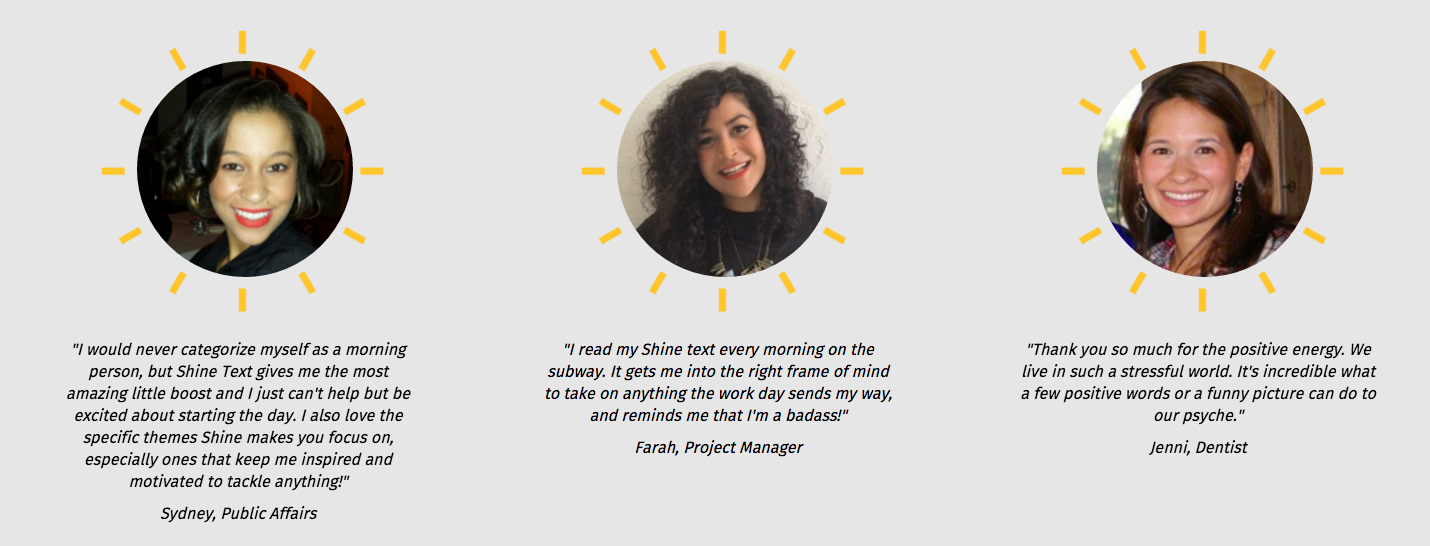
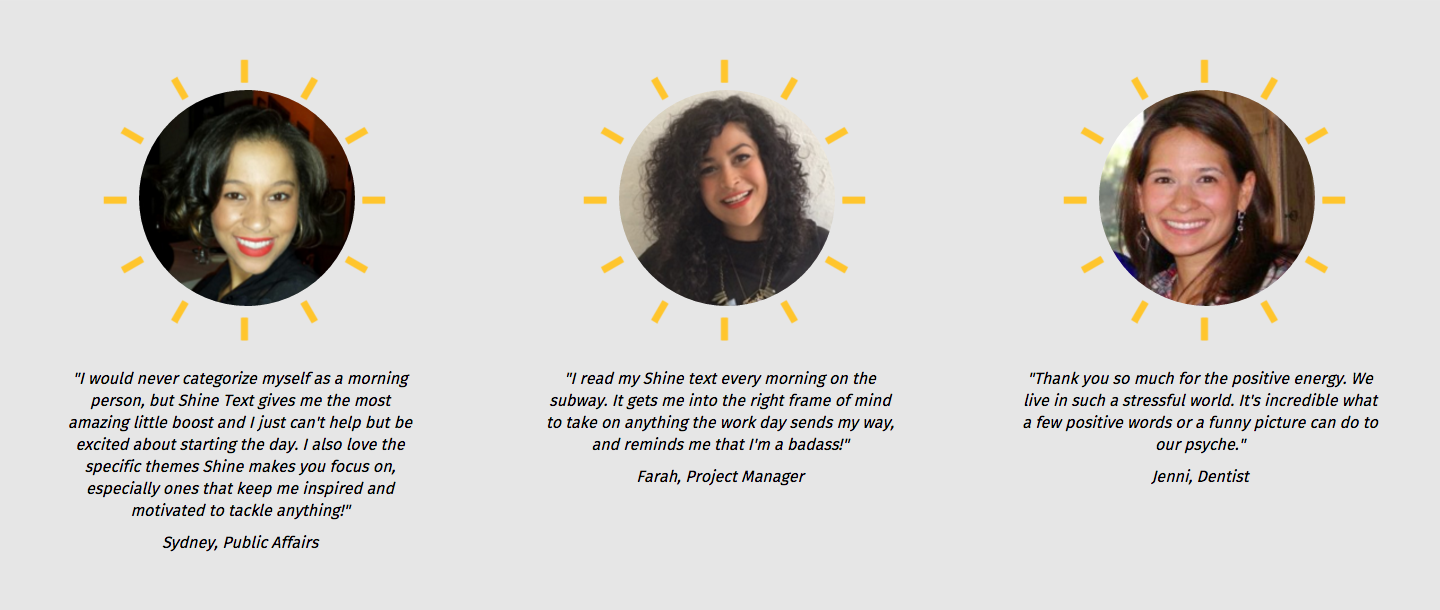
fixes slides so they are the same size - adds size into comments of the code

diff --git a/resources/views/index.blade.php b/resources/views/index.blade.php
@@ -164,27 +164,19 @@
           <ol class="carousel-indicators">
             <li data-target="#carousel-example-generic" data-slide-to="0" class="active"></li>
             <li data-target="#carousel-example-generic" data-slide-to="1"></li>
-            <li data-target="#carousel-example-generic" data-slide-to="2"></li>
+            <!-- <li data-target="#carousel-example-generic" data-slide-to="2"></li> -->
           </ol>
          
-          <!-- Wrapper for slides -->
+          <!-- Wrapper for slides - dimensions are screenshots of 1440 x 610 -->
           <div class="carousel-inner">
             <div class="item active">
               <img src={{asset('images/testimonials_1.png')}} alt="...">
-              <div class="carousel-caption">
-                  <!-- <h3>Caption</h3> -->
-              </div>
+<!--               <div class="carousel-caption">
+                  <h3>Caption</h3>
+              </div> -->
             </div>
             <div class="item">
               <img src={{asset('images/testimonials_2.png')}} alt="...">
-              <div class="carousel-caption">
-              </div>
-            </div>
-            <div class="item">
-              <img src={{asset('images/christina  .png')}} alt="...">
-              <div class="carousel-caption">
-                  <h3>Christina</h3>
-              </div>
             </div>
           </div>
          
@@ -196,7 +188,7 @@
             <span class="glyphicon glyphicon-chevron-right"></span>
           </a>
         </div> <!-- Carousel -->
-        <!-- <div class="col-md-4" id="testimonials">
+     <!--    <div class="col-md-4" id="testimonials">
           <div class="rays">
             <img src={{asset('images/sun_rays.png')}}>
           </div>
@@ -205,10 +197,9 @@
           </div>
           <p>"EVERYTHING I ever needed to make it through another awkward week of my version of adulting. I'm always twiddling my thumbs waiting for Shine to kick my ass back into gear. #dependency"</p> 
           <p id="name">Brenna, Graduate Student</p>
-        </div>
         </div> -->
           <a name="refer"></a>
-      </div>
+      <!-- </div> -->
 
       <div style="clear: both;">
       <div class="refer-a-friend">
@@ -243,7 +234,7 @@
       <div class="contact">
           <h2>WE'RE FIGURING IT OUT WITH YOU</h2>
           <p>
-<!--               50% of women report that they experience feelings of self-doubt about their performance and careers - compared to just 31% of men. We want to change that.<br><br>  -->
+<!--               50% of women report that they experience feelings of self-doubt about their performance and careers - compared to just 31% of men. We want to change that.<br><br> 
               As three close friends who met at work, we regularly leaned on each other for support, advice, and confidence tips and recognized a gap in the market. 
               How could we scale the support we gave each other for women across the country? That's how Shine came to be. We are three women of color with separate backgrounds in product, marketing and engineering, 
               curating content we need and want in our day to day.
